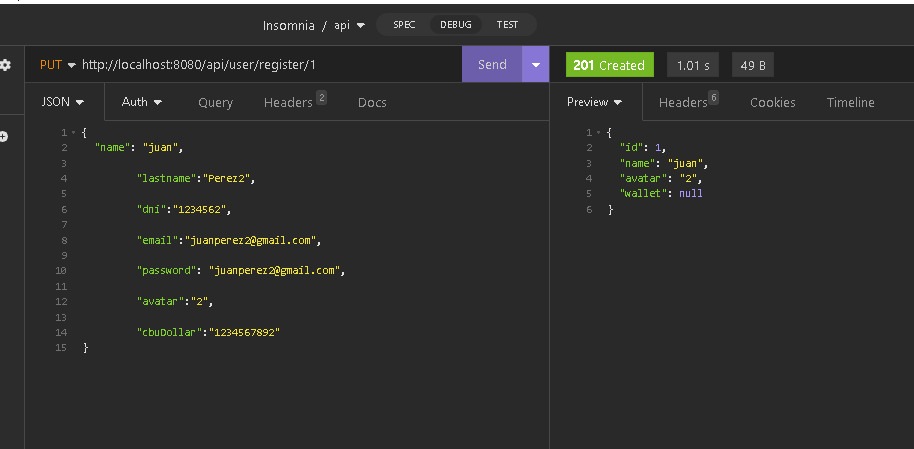
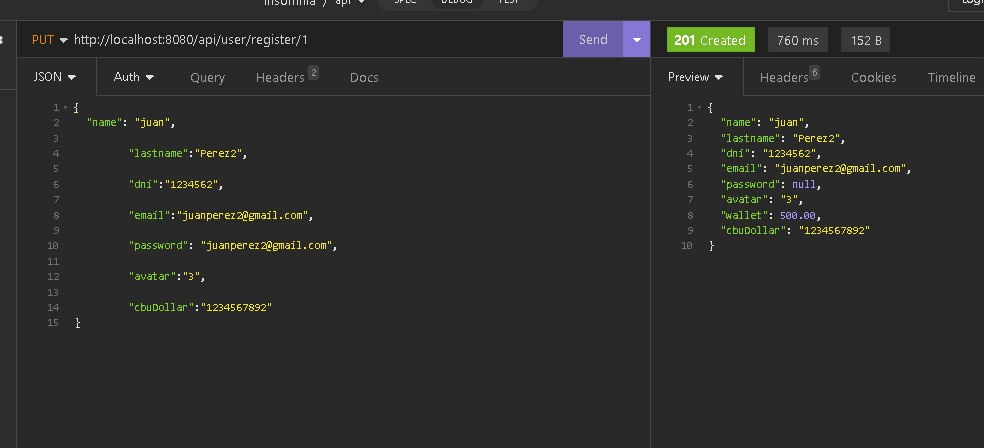
actualizando el dto para el update user complete

diff --git a/back/app/src/main/java/payzo/app/Repository/impl/UserRepositoryImpl.java b/back/app/src/main/java/payzo/app/Repository/impl/UserRepositoryImpl.java
@@ -50,7 +50,7 @@ public class UserRepositoryImpl {
 
     }
 
-    public responseUser userUpdate(UserDtoUpdate userDtoRegister, Long id) {
+    public UserDtoUpdate userUpdate(UserDtoUpdate userDtoRegister, Long id) {
         var user = userRepository.findById(id);
         if(userDtoRegister.name()!=null) user.get().setName(userDtoRegister.name());
         if(userDtoRegister.lastname()!=null) user.get().setLastname(userDtoRegister.lastname());
@@ -60,7 +60,7 @@ public class UserRepositoryImpl {
         if(userDtoRegister.avatar()!=null) user.get().setAvatar(userDtoRegister.avatar());
         if(userDtoRegister.cbuDollar()!=null) user.get().setCbuDollar(userDtoRegister.cbuDollar());
         var userUpdate = userRepository.save(new User(user) );
-        return new responseUser(userUpdate);
+        return new UserDtoUpdate(userUpdate);
 
     }
 

diff --git a/back/app/src/main/java/payzo/app/dto/UserDtoUpdate.java b/back/app/src/main/java/payzo/app/dto/UserDtoUpdate.java
@@ -1,6 +1,9 @@
 package payzo.app.dto;
 
 import jakarta.validation.constraints.NotBlank;
+import payzo.app.Model.User;
+
+import java.math.BigDecimal;
 
 public record UserDtoUpdate(
 
@@ -16,8 +19,11 @@ public record UserDtoUpdate(
         String password,
 
         String avatar,
-
+        BigDecimal wallet,
         String cbuDollar
 ) {
 
+    public UserDtoUpdate(User userUpdate) {
+        this(userUpdate.getName(), userUpdate.getLastname(),userUpdate.getDni(),userUpdate.getEmail(),null,userUpdate.getAvatar(),userUpdate.getWallet(),userUpdate.getCbuDollar());
+    }
 }
